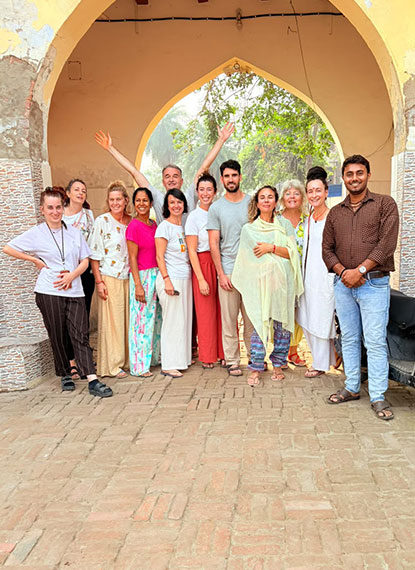
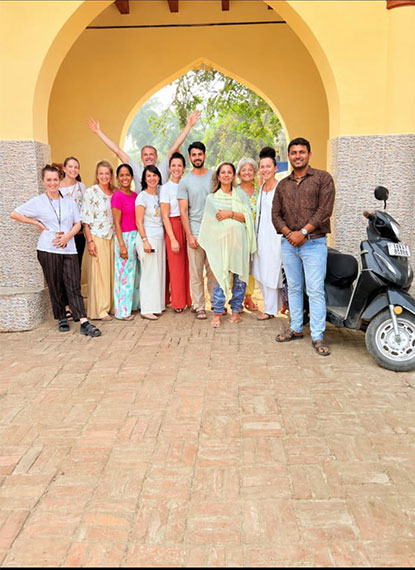
updated ph or other section

diff --git a/app/events/page.jsx b/app/events/page.jsx
@@ -61,15 +61,13 @@ const spiritualActivities = [
     subtitle: "Devotional Music",
     description:
       "Experience the joy of devotional songs and spiritual chanting.",
-    image: "/assets/images/bhajan.jpg",
     number: "01",
   },
   {
-    title: "Meditation",
-    subtitle: "Inner Peace",
+    title: "Meditation (Pre-Arranged)",
+    subtitle: "By Prior Arrangement",
     description:
-      "Take a peaceful moment for reflection, mindfulness, and spiritual connection.",
-    image: "/assets/images/bhajan.jpg",
+      "Enjoy a peaceful meditation experience through prior arrangements with the ashram.",
     number: "02",
   },
   {
@@ -77,7 +75,6 @@ const spiritualActivities = [
     subtitle: "Satsang & Devotion",
     description:
       "Discover opportunities to participate in spiritual and religious activities.",
-    image: "/assets/images/bhajan.jpg",
     number: "03",
   },
 ];
@@ -726,53 +723,39 @@ export default function EventsPage() {
               </p>
             </div>
           </div>
+<div className="grid gap-7 md:grid-cols-2 lg:grid-cols-3">
+  {spiritualActivities.map((activity, index) => (
+    <article
+      key={activity.number}
+      data-aos="fade-up"
+      data-aos-delay={index * 150}
+      className="group relative min-h-[320px] overflow-hidden rounded-[26px] bg-transparent text-[#244584] shadow-none transition-all duration-500 md:bg-gradient-to-r md:from-[#D99024] md:via-[#B96B25] md:to-[#82451F] md:text-white md:shadow-lg"
+    >
+      {/* Number */}
+      <div className="absolute right-6 top-6 flex h-12 w-12 items-center justify-center rounded-full border border-[#D99024]/40 bg-[#D99024]/10 text-sm font-bold text-[#B96B25] transition-all duration-500 group-hover:rotate-12 md:border-white/40 md:bg-white/10 md:text-white md:backdrop-blur-md">
+        {activity.number}
+      </div>
 
-          <div className="grid gap-7 md:grid-cols-2 lg:grid-cols-3">
-            {spiritualActivities.map((activity, index) => (
-              <article
-                key={activity.number}
-                data-aos="fade-up"
-                data-aos-delay={index * 150}
-                className="group relative min-h-[390px] overflow-hidden rounded-[26px] bg-[#14233F] shadow-lg"
-              >
-                <img
-                  src={activity.image}
-                  alt={activity.title}
-                  className="absolute inset-0 h-full w-full object-cover transition-transform duration-1000 group-hover:scale-110"
-                />
+      {/* Content */}
+      <div className="flex h-full min-h-[320px] flex-col justify-end p-7 transition-transform duration-500 md:group-hover:-translate-y-2">
+        <span className="text-xs font-bold uppercase tracking-[3px] text-[#B96B25] md:text-[#FFCA45]">
+          {activity.subtitle}
+        </span>
 
-                <div className="absolute inset-0 bg-gradient-to-t from-[#0C1B36] via-[#0C1B36]/35 to-transparent transition-all duration-500 group-hover:from-[#102B58]/95" />
+        <h3 className="mt-3 text-2xl font-bold md:text-3xl">
+          {activity.title}
+        </h3>
 
-                <div className="absolute right-6 top-6 flex h-12 w-12 items-center justify-center rounded-full border border-white/40 bg-white/10 text-sm font-bold text-white backdrop-blur-md">
-                  {activity.number}
-                </div>
+        <p className="mt-3 max-w-sm text-sm leading-7 text-[#475569] md:text-white/85">
+          {activity.description}
+        </p>
 
-                <div className="absolute bottom-0 left-0 w-full p-7 text-white transition-transform duration-500 group-hover:-translate-y-2">
-                  <span className="text-xs font-bold uppercase tracking-[3px] text-[#FFCA45]">
-                    {activity.subtitle}
-                  </span>
-
-                  <h3 className="mt-3 text-2xl font-bold md:text-3xl">
-                    {activity.title}
-                  </h3>
-
-                  <p className="mt-3 max-w-sm text-sm leading-7 text-white/80">
-                    {activity.description}
-                  </p>
-
-                  <div className="mt-5 flex items-center gap-2 text-sm font-bold text-[#FFCA45]">
-                    <span>Explore Activities</span>
-                    <ArrowUpRight
-                      size={18}
-                      className="transition-transform group-hover:translate-x-1 group-hover:-translate-y-1"
-                    />
-                  </div>
-
-                  <div className="mt-5 h-[2px] w-10 bg-[#FFB900] transition-all duration-500 group-hover:w-full" />
-                </div>
-              </article>
-            ))}
-          </div>
+        {/* Bottom Accent Line */}
+        <div className="mt-6 h-[3px] w-12 rounded-full bg-[#D99024] transition-all duration-500 group-hover:w-full md:bg-[#FFB900]" />
+      </div>
+    </article>
+  ))}
+</div>
         </div>
       </section>
 

diff --git a/app/about/page.jsx b/app/about/page.jsx
@@ -184,7 +184,7 @@ function AboutThreeColumnSection() {
           </h2>
 
           {/* INTRODUCTION */}
-          <div className="mt-6 space-y-4 text-sm leading-7 text-gray-600">
+          <div className="mt-6 space-y-4 text-sm leading-7 text-gray-800">
 
             <p
               className="font-semibold text-gray-800"
@@ -195,7 +195,7 @@ function AboutThreeColumnSection() {
               retreat rooted in years of quiet devotion and family tradition.
             </p>
 
-            <p
+            <p className="font-semibold text-gray-800"
               data-aos="fade-up"
               data-aos-delay="300"
             >
@@ -204,7 +204,7 @@ function AboutThreeColumnSection() {
               serenity, and spiritual atmosphere.
             </p>
 
-            <p
+            <p className="font-semibold text-gray-800"
               data-aos="fade-up"
               data-aos-delay="400"
             >
@@ -410,7 +410,7 @@ function AboutThreeColumnSection() {
               Authentic Culture and Charm, Where Beauty Knows No Bounds
             </h3>
 
-            <p className="mt-4 text-[15px] leading-8 text-[#737F91]">
+            <p className="mt-4 text-[15px] leading-8 text-gray-800">
               The property offers a serene atmosphere, spacious
               rooms, a well-maintained garden, and a temple within
               the premises.
@@ -466,15 +466,13 @@ function FacilitiesArcShowcaseSection({ facilities = [] }) {
   // Facility images
   const facilityImages = [
   "/assets/images/sd/1.jpg",
-  "/assets/images/sd/5.jpg",
-  "/assets/images/sd/2.jpg",
   "/assets/images/gallery1.jpg",
   "/assets/images/tpr.jpg",
-  "/assets/images/temple-hall/4.jpg",
-  "https://encrypted-tbn0.gstatic.com/images?q=tbn:ANd9GcQZYSJYXxlEgd8ckbF1Nj441iGBCTm4dV8Kr1w4MSpzZA&s",
+  "/assets/images/temple-hall/4.jpg", 
   "/assets/images/about3.jpg",
   "/assets/images/about1.jpg",
-  "https://encrypted-tbn0.gstatic.com/images?q=tbn:ANd9GcRB50Q2k7cxemwDmcd0BVJY4m5KhPIHcJcHeJ9MZwROZGOfen4HshGG5tQ&s",
+  "/assets/images/dr/4.jpg"
+  
 ];
 
   // Responsive layout
@@ -495,7 +493,7 @@ function FacilitiesArcShowcaseSection({ facilities = [] }) {
 
     const interval = setInterval(() => {
       setActiveIndex((prev) => prev + 1);
-    }, 1500);
+    }, 3500);
 
     return () => clearInterval(interval);
   }, [isPaused, isDragging, totalItems]);
@@ -795,18 +793,13 @@ const facilities = [
     description:
       "Spacious, air-conditioned rooms with heating facilities for comfortable stays during colder months.",
   },
-  {
-    icon: Bath,
-    title: "Private Bathrooms",
-    description:
-      "Attached private bathrooms, comfortable seating areas, wardrobes and dressing areas in selected rooms.",
-  },
-  {
-    icon: Refrigerator,
-    title: "Kitchen Facilities",
-    description:
-      "Selected rooms feature a compact kitchen and mini refrigerator for additional convenience.",
-  },
+ 
+  // {
+  //   icon: Refrigerator,
+  //   title: "Kitchen Facilities",
+  //   description:
+  //     "Selected rooms feature a compact kitchen and mini refrigerator for additional convenience.",
+  // },
   {
     icon: Trees,
     title: "Garden & Open Spaces",
@@ -825,12 +818,12 @@ const facilities = [
     description:
       "The Ashram has a goshala (cow shelter) and provisions for anna kshetra, offering free food distribution.",
   },
-  {
-    icon: Droplets,
-    title: "Drinking Water Facility",
-    description:
-      "A dedicated piyau provides drinking-water facilities within the Ashram premises.",
-  },
+  // {
+  //   icon: Droplets,
+  //   title: "Drinking Water Facility",
+  //   description:
+  //     "A dedicated piyau provides drinking-water facilities within the Ashram premises.",
+  // },
   {
     icon: Users,
     title: "Spacious Hall & Garden",
@@ -843,12 +836,12 @@ const facilities = [
     description:
       "The ground-floor layout makes the property suitable for elderly guests and those who prefer easy accessibility.",
   },
-  {
-    icon: Wifi,
-    title: "High-Speed Wi-Fi",
-    description:
-      "Enjoy seamless high-speed Wi-Fi connectivity throughout your stay.",
-  },
+  // {
+  //   icon: Wifi,
+  //   title: "High-Speed Wi-Fi",
+  //   description:
+  //     "Enjoy seamless high-speed Wi-Fi connectivity throughout your stay.",
+  // },
   {
     icon: Zap,
     title: "24/7 Power Backup",
@@ -862,7 +855,7 @@ const facilities = [
 // ==========================================
 
 const attractions = [
-  { name: "Radharaman Bihari Temple", distance: "Nearby" },
+  { name: "Radharaman Temple", distance: "Nearby" },
   { name: "Keli Kunj", distance: "Nearby" },
   { name: "Shri Banke Bihari Temple", distance: "1 km" },
   { name: "Radha Ballabh Mandir", distance: "1 km" },

diff --git a/app/components/Header.jsx b/app/components/Header.jsx
@@ -131,7 +131,7 @@ export default function Header() {
 
       {/* Bottom navigation */}
       <div className="bg-[#FFF8ED] shadow-[0_6px_12px_rgba(0,0,0,0.12)]">
-        <div className="hidden min-[1300px]:flex mx-auto min-h-[56px] max-w-[1320px] items-center justify-between px-5 lg:px-8">
+        <div className="hidden min-[1300px]:flex mx-auto min-h-[56px] max-w-[1380px] items-center justify-between px-5 lg:px-8">
           {/* Desktop navigation */}
           <nav
             className="hidden items-center gap-5 min-[1300px]:flex xl:gap-6"
@@ -189,10 +189,10 @@ export default function Header() {
   <li className="secondary flex items-center">
     <a 
       className="flex font-bold items-center gap-2 text-[16px] text-[#4B4037] transition hover:text-[#B96B25]" 
-      href="mailto:info@ashram.com"
+      href="mailto:skbhaktiashram@gmail.com"
     >
       <span className="flex items-center text-[16px] text-[#4B4037] hover:text-[#B96B25]"><MdEmail /></span>  
-      info@ashram.com
+      skbhaktiashram@gmail.com
     </a>
   </li>
 
@@ -200,10 +200,10 @@ export default function Header() {
   <li className="secondary flex items-center">
     <a 
       className="font-bold flex items-center gap-2 telnav text-[16px] text-[#4B4037] transition hover:text-[#B96B25]" 
-      href="tel:+9286806006"
+      href="tel:+919748088819"
     >
       <span className="flex items-center text-[16px] text-[#4B4037] hover:text-[#B96B25]"><FaPhone /></span>
-      +91 9286806006
+      +91 9748088819
     </a>
   </li>
   <li>

diff --git a/app/gallery/page.jsx b/app/gallery/page.jsx
@@ -68,14 +68,20 @@ const galleryCategories = [
     id: "Premium",
     label: "Premium Rooms",
     images: [
-      "/assets/images/deluxe-booking-sites/1.jpg",
-      "/assets/images/deluxe-booking-sites/11.jpg",
-      "/assets/images/deluxe-booking-sites/room3.jpg",
+      "/assets/images/deluxe-booking-sites/p1.jpg",
+       "/assets/images/deluxe-booking-sites/pr1-1.jpg",
+          "/assets/images/deluxe-booking-sites/pr-no2.jpg",
+       "/assets/images/deluxe-booking-sites/pr-no2-1.jpg",      
+      "/assets/images/deluxe-booking-sites/pr3.jpg",
+      "/assets/images/deluxe-booking-sites/pr3-1.jpg",
       
     ],
     captions: [
       "Room No. 1",
+      "Room No. 1",
       "Room No. 2",
+      "Room No. 2",
+      "Room No. 3",
       "Room No. 3",     
       
     ],
@@ -96,15 +102,15 @@ const galleryCategories = [
       
     ],
     captions: [
-      "Holi",
+      "",
       "Chilling Outside",
       "Holi",
       "Holi",
       "Chilling Outside",
-      "A Happy Evening",
+      "A Happy Morning",
       "Bonfire",
-      "A Happy Evening",
-      "Bonfire",
+      "Chilling Outside",
+      "Guest",
       
     ],
   },
